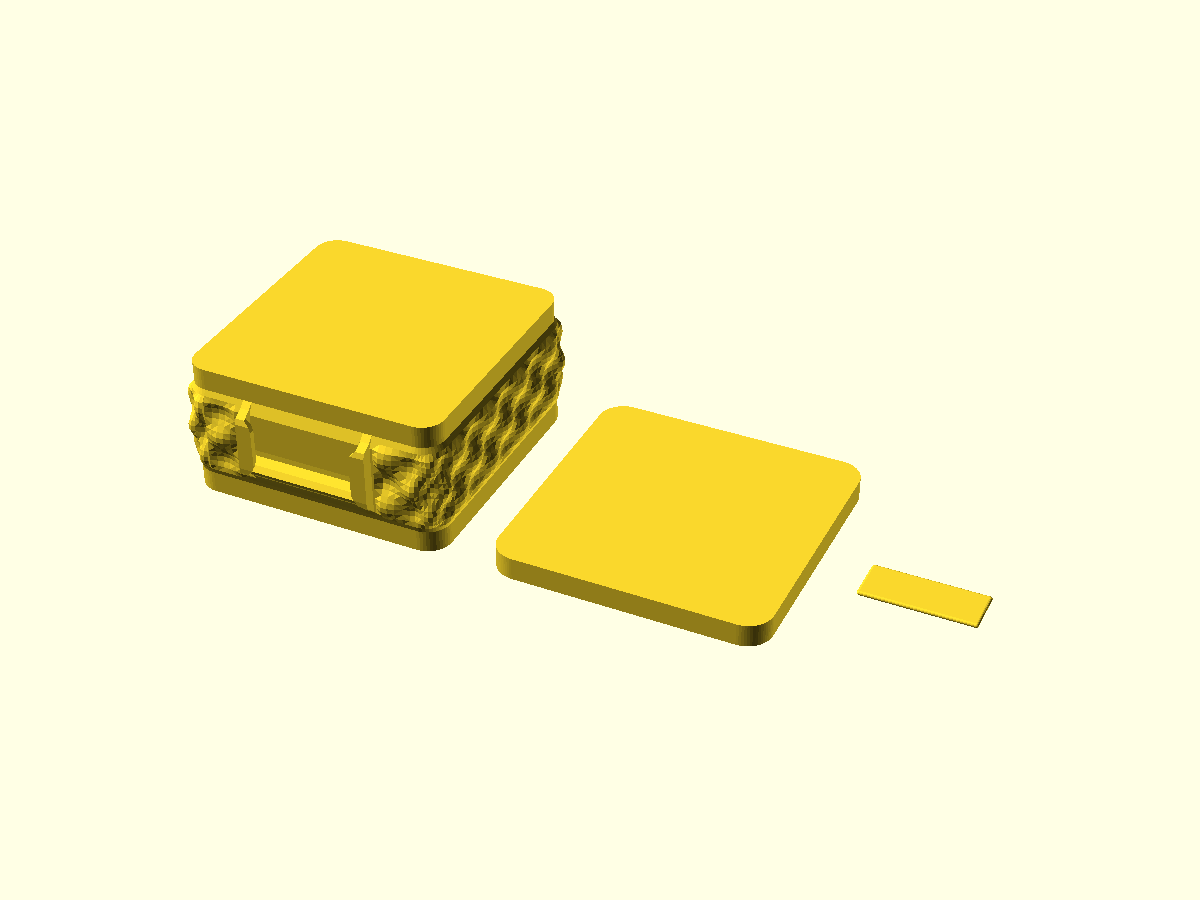
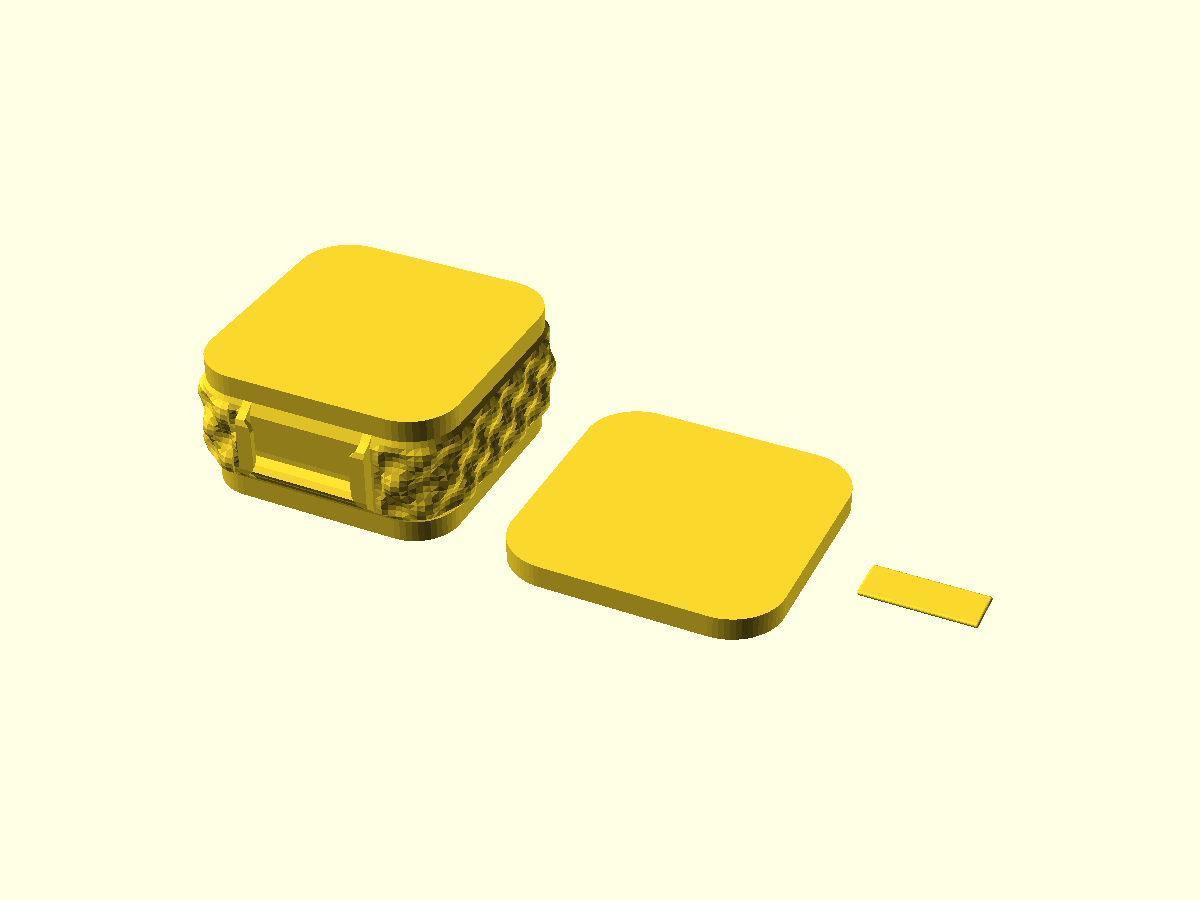
feat(container): make plaque pocket optional

diff --git a/CHANGELOG.md b/CHANGELOG.md
@@ -1,5 +1,19 @@
 # Changelog
 
+## [0.5.0] - 2026-09-05
+
+- **why:** Let users print the box without the plaque pocket when no nameplate is needed
+- **model:** openrouter/z-ai/glm-5.3-flash
+- **tags:** openscad, container, plaque-pocket, parametrization
+
+### Added
+
+- `drawings/container/stackable-box.scad`: `plaque_pocket` true/false parameter; `false` renders a plain front wall so the op-art pattern covers all four sides
+
+### Changed
+
+- Pocket size asserts in `drawings/container/stackable-box.scad` now run only when `plaque_pocket = true`; stacking and lid asserts stay unconditional
+
 ## [0.4.0] - 2026-09-04
 
 - **why:** Add a stackable vase-mode storage box with lid and slide-in plaque pocket
